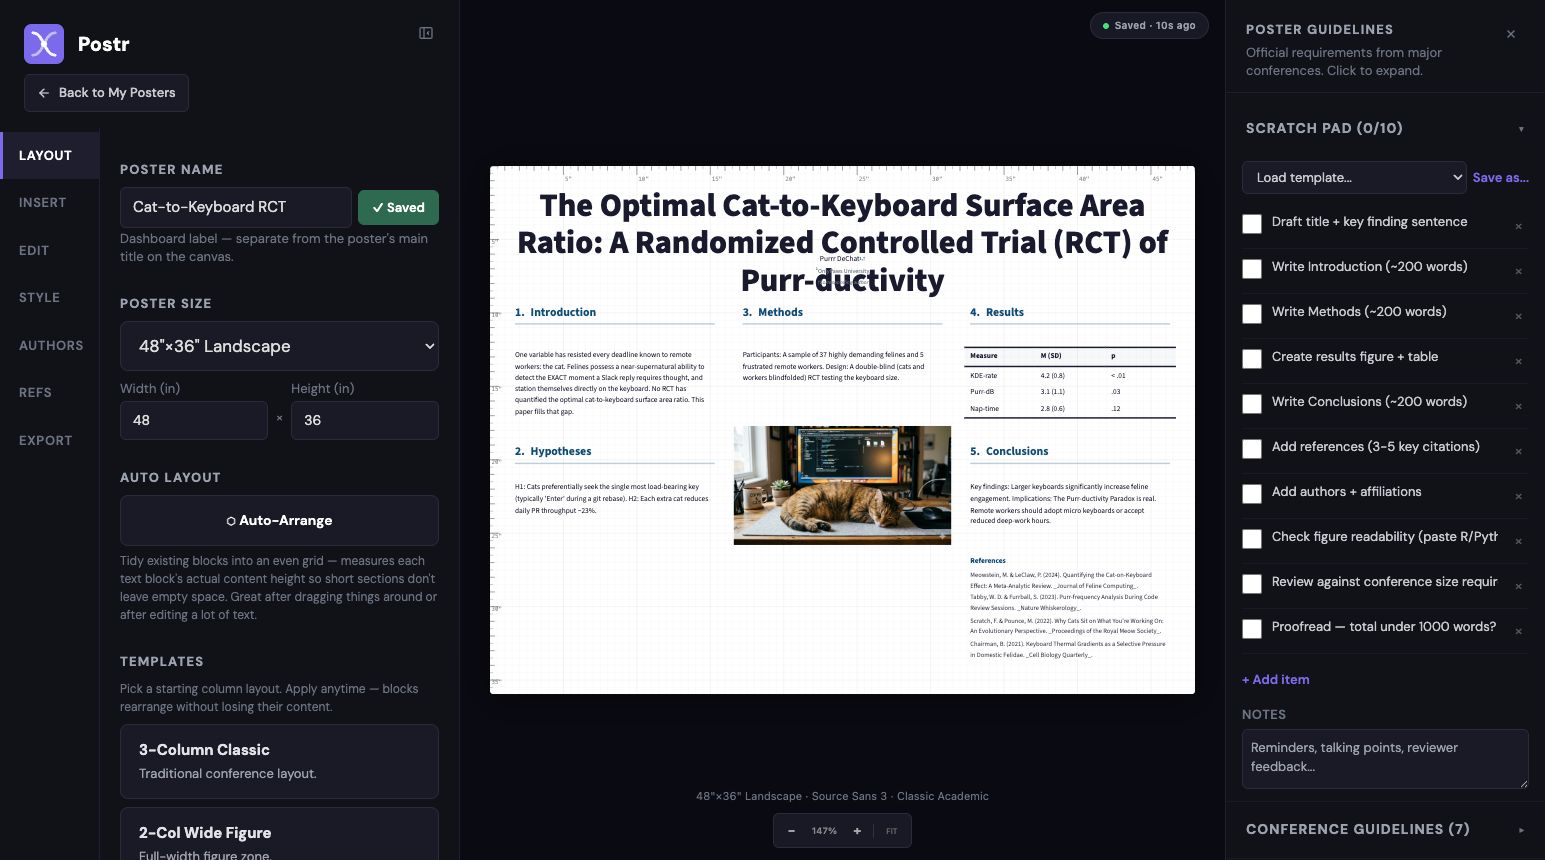
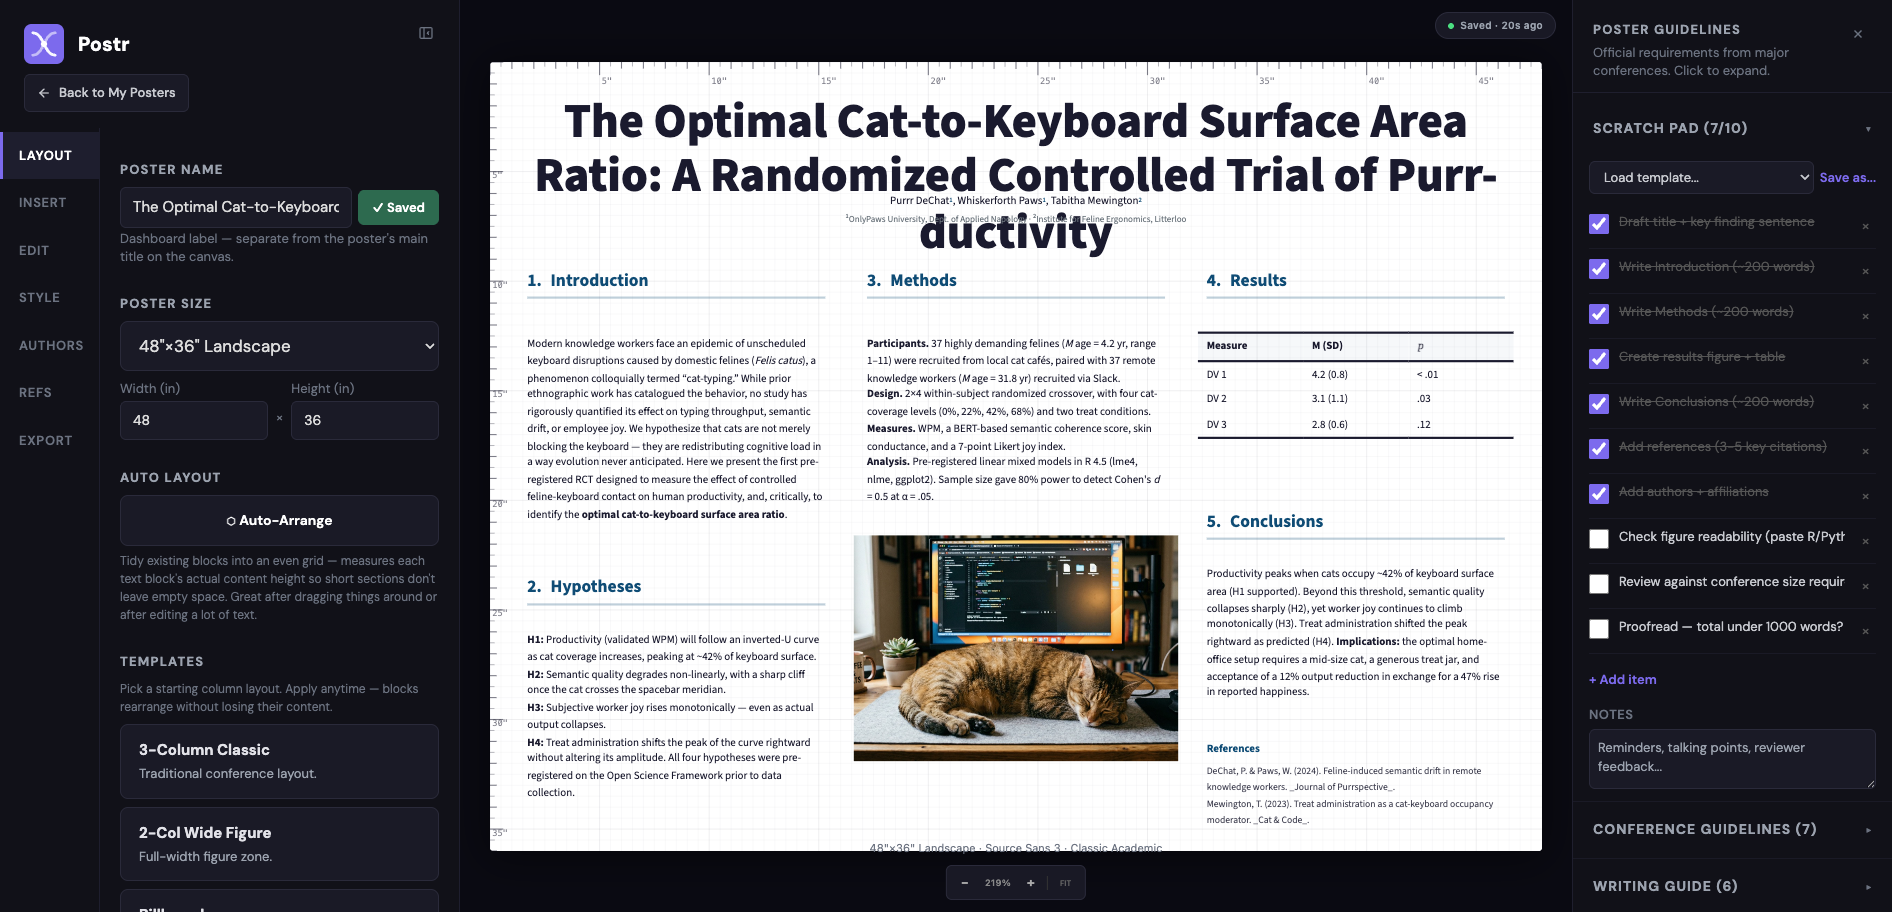
fix(auto-arrange): measure references block from doc.references meta
The auto-layout probe was measuring `blk.content` for every block,
but references blocks render from `doc.references` via the citation
formatter — `blk.content` is always empty for them. Result: the
probe returned a single-line height, auto-arrange stacked the refs
column too tight, and any poster with more than one reference
overflowed the canvas after a repack.

When probing a references block, reproduce the actual rendered
text (a "References" header line + each formatted citation, with
italics stripped) so the measured height matches what RefsBlock
actually draws. Verified end-to-end by regenerating the 5 social-
media screenshots with padded Intro/Hypotheses/Methods/Conclusions
content — no overflow warning, no block outside the canvas.

Also updates social_media_content/* with denser, fuller screenshots
(all five now ~500KB, up from ~350KB): every text column is
meme-packed with the cat-RCT content, all components deselected.

diff --git a/apps/web/src/poster/PosterEditor.tsx b/apps/web/src/poster/PosterEditor.tsx
@@ -46,6 +46,7 @@ import {
 import { PaletteDesigner } from '@/components/PaletteDesigner';
 import { StaplesPrintModal } from '@/components/StaplesPrintModal';
 import {
+  CITATION_STYLES,
   DEFAULT_CITATION_STYLE,
   sortReferences,
   type CitationStyleKey,
@@ -851,11 +852,23 @@ export function PosterEditor() {
         'white-space:pre-wrap',
         'word-wrap:break-word',
       ].join(';');
-      // For title/text/heading, use the raw content string
-      // (minus any inline HTML tags from rich text formatting).
-      let text = blk.content || '';
-      // Strip HTML but preserve line breaks
-      text = text.replace(/<br\s*\/?>/gi, '\n').replace(/<[^>]+>/g, '');
+
+      let text: string;
+      if (blk.type === 'references') {
+        // References don't use blk.content — they render from
+        // doc.references via the selected citation formatter plus a
+        // "References" header line. Reproduce that here so the probe
+        // actually measures the rendered refs block height.
+        const fmt = CITATION_STYLES[citationStyle] ?? CITATION_STYLES[DEFAULT_CITATION_STYLE];
+        const lines = doc.references.map((r, i) =>
+          fmt(r, i).replace(/_([^_]+)_/g, '$1'),
+        );
+        text = ['References', ...lines].join('\n');
+      } else {
+        // For title/text/heading/authors, use the raw content string
+        // (minus any inline HTML tags from rich text formatting).
+        text = (blk.content || '').replace(/<br\s*\/?>/gi, '\n').replace(/<[^>]+>/g, '');
+      }
       probe.textContent = text || ' ';
       host.appendChild(probe);
       const h = probe.offsetHeight;
